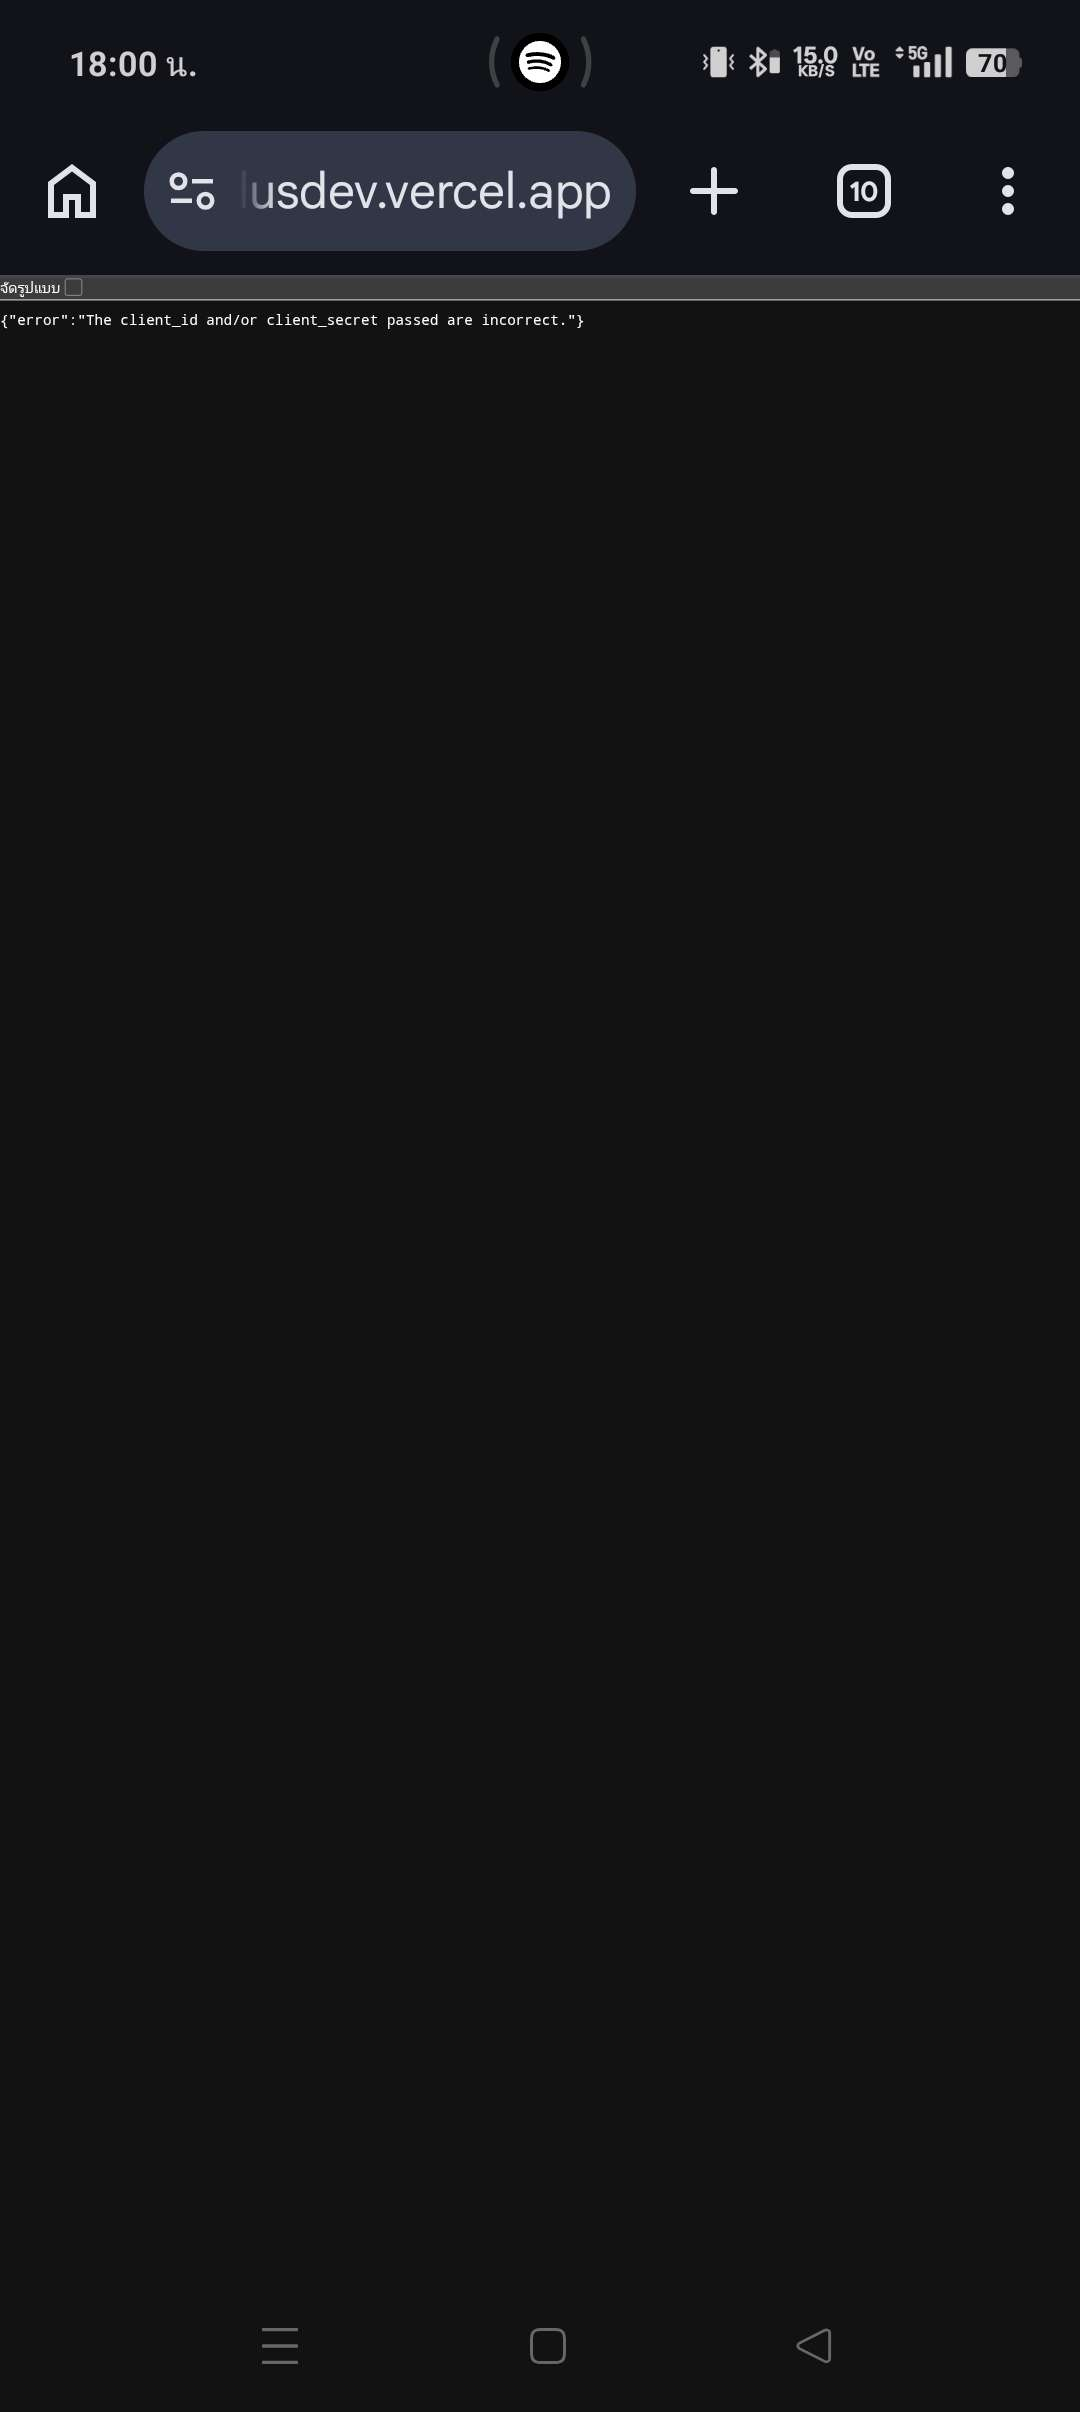
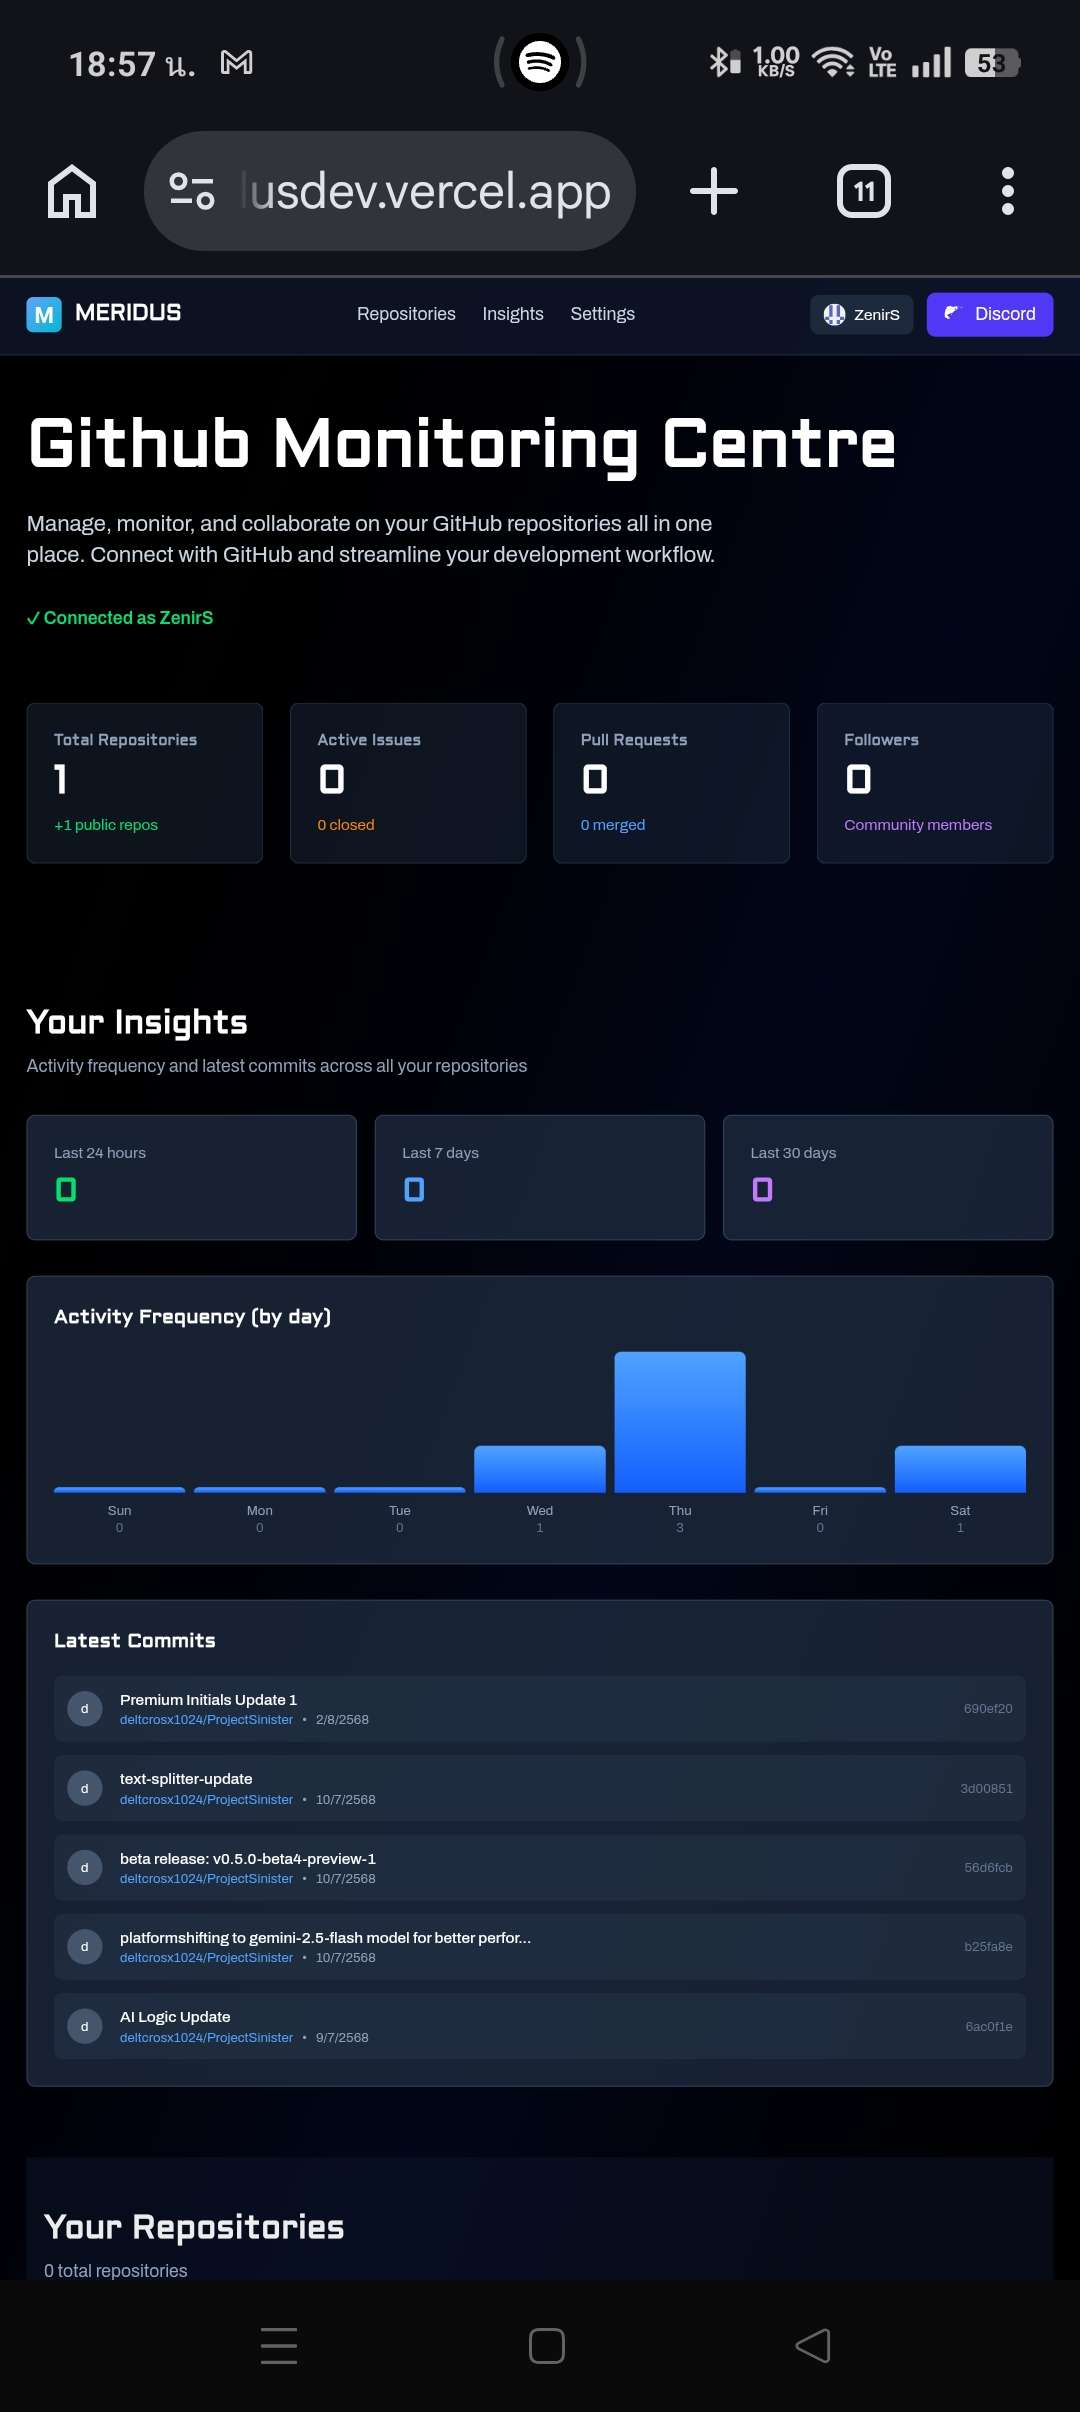
api route fixing 1

diff --git a/app/lib/useGitHub.ts b/app/lib/useGitHub.ts
@@ -52,6 +52,12 @@ export function useGitHubRepos() {
         const response = await fetch('/api/github/repos');
         const data = await response.json();
         if (!response.ok) {
+          // If not authenticated, don't show error - just return empty
+          if (data?.needsAuth) {
+            setRepos([]);
+            setIsLoading(false);
+            return;
+          }
           const errMsg = data?.error || data?.message || 'Failed to fetch repos';
           throw new Error(errMsg);
         }
@@ -92,6 +98,12 @@ export function useGitHubIssues() {
         const response = await fetch('/api/github/issues');
         const data = await response.json();
         if (!response.ok) {
+          // If not authenticated, don't show error - just return empty
+          if (data?.needsAuth) {
+            setIssues([]);
+            setIsLoading(false);
+            return;
+          }
           const errMsg = data?.error || data?.message || 'Failed to fetch issues';
           throw new Error(errMsg);
         }
@@ -131,6 +143,12 @@ export function useGitHubPullRequests() {
         const response = await fetch('/api/github/issues?type=pull');
         const data = await response.json();
         if (!response.ok) {
+          // If not authenticated, don't show error - just return empty
+          if (data?.needsAuth) {
+            setPrs([]);
+            setIsLoading(false);
+            return;
+          }
           const errMsg = data?.error || data?.message || 'Failed to fetch pull requests';
           throw new Error(errMsg);
         }
@@ -169,6 +187,12 @@ export function useGitHubCommits(perRepo = 5, maxRepos = 10) {
         const response = await fetch(`/api/github/commits?per_repo=${perRepo}&max_repos=${maxRepos}`);
         const data = await response.json();
         if (!response.ok) {
+          // If not authenticated, don't show error - just return empty
+          if (data?.needsAuth) {
+            setCommits([]);
+            setIsLoading(false);
+            return;
+          }
           const errMsg = data?.error || data?.message || 'Failed to fetch commits';
           throw new Error(errMsg);
         }

diff --git a/app/api/github/issues/route.ts b/app/api/github/issues/route.ts
@@ -14,12 +14,14 @@ export async function GET(request: Request) {
   const cookieToken = cookieStore.get('github_token')?.value;
   const authHeader = request.headers.get('authorization');
   const headerToken = authHeader?.split(' ')[1];
-  const token = cookieToken ?? headerToken ?? process.env.GITHUB_TOKEN;
+  
+  // Use user's token only - do NOT fall back to hardcoded token
+  const token = cookieToken ?? headerToken;
   const url = new URL(request.url);
   const type = url.searchParams.get('type');
 
   if (!token) {
-    return NextResponse.json({ error: 'No GitHub token provided' }, { status: 401 });
+    return NextResponse.json({ error: 'Not authenticated. Please log in with GitHub.', needsAuth: true }, { status: 401 });
   }
 
   try {

diff --git a/app/api/github/commits/route.ts b/app/api/github/commits/route.ts
@@ -16,10 +16,13 @@ export async function GET(request: Request) {
   const cookieToken = cookieStore.get('github_token')?.value;
   const authHeader = request.headers.get('authorization');
   const headerToken = authHeader?.split(' ')[1];
-  const token = cookieToken ?? headerToken ?? process.env.GITHUB_TOKEN;
+  
+  // Use user's token only - do NOT fall back to hardcoded token
+  // This prevents showing wrong user's data
+  const token = cookieToken ?? headerToken;
 
   if (!token) {
-    return NextResponse.json({ error: 'No GitHub token provided' }, { status: 401 });
+    return NextResponse.json({ error: 'Not authenticated. Please log in with GitHub.', needsAuth: true }, { status: 401 });
   }
 
   const url = new URL(request.url);

diff --git a/app/api/github/repos/route.ts b/app/api/github/repos/route.ts
@@ -12,10 +12,12 @@ export async function GET(request: Request) {
   const cookieToken = cookieStore.get('github_token')?.value;
   const authHeader = request.headers.get('authorization');
   const headerToken = authHeader?.split(' ')[1];
-  const token = cookieToken ?? headerToken ?? process.env.GITHUB_TOKEN;
+  
+  // Use user's token only - do NOT fall back to hardcoded token
+  const token = cookieToken ?? headerToken;
 
   if (!token) {
-    return NextResponse.json({ error: 'No GitHub token provided' }, { status: 401 });
+    return NextResponse.json({ error: 'Not authenticated. Please log in with GitHub.', needsAuth: true }, { status: 401 });
   }
 
   try {
